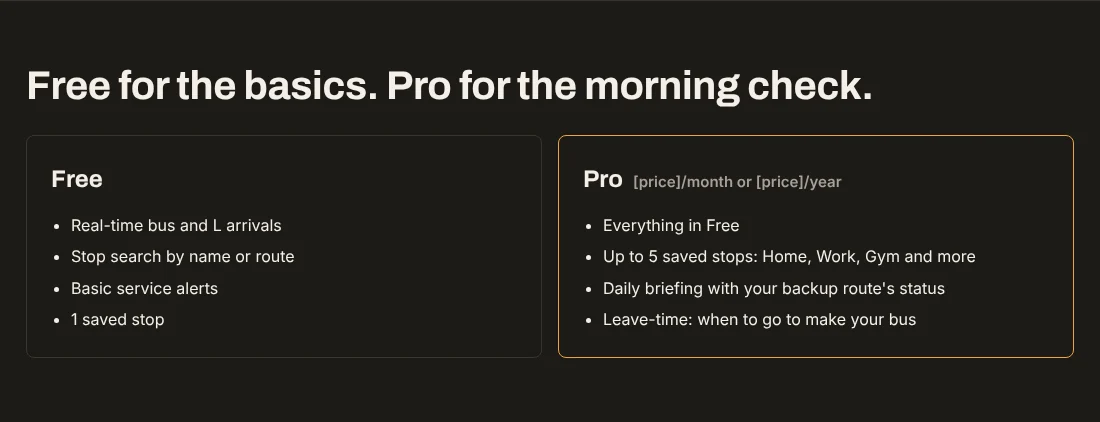
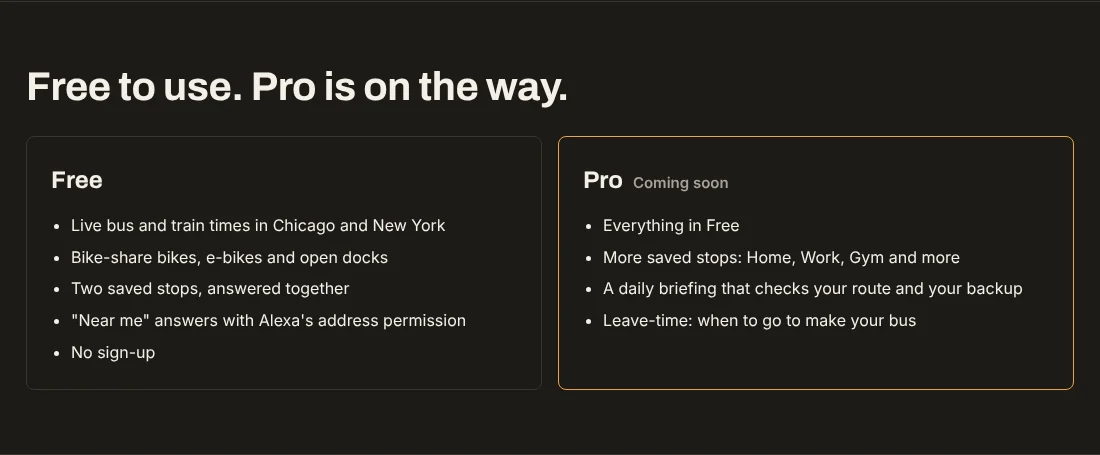
feat(work): Out the Door is live in Chicago and New York
Update the Out the Door case study to match the live skill: live status
(no more coming-soon badge), Chicago and New York coverage, bike share,
two saved stops, and working example phrasings. Remove claims for
features that aren't live yet (route nicknames, service alerts).
Refresh the screenshots, architecture diagrams and demo video frame,
add a "Two cities" screen, and move the card before NoteDoctor iOS so
the grid stays even.

Claude-Session: https://claude.ai/code/session_01XnDbDpTH5JA8nZwDr1Hqtn

diff --git a/src/app/work/projects.ts b/src/app/work/projects.ts
@@ -526,6 +526,87 @@ const PROJECTS: Project[] = [
       { bg: '#ffffff', src: '/images/projects/sterlingFoster/contact.webp',         label: 'Contact & consultation', size: 'standard', fullPage: { src: '/images/projects/sterlingFoster/pages/contact.webp', width: 1600, height: 3190 } },
       { bg: '#262c35', src: '/images/projects/sterlingFoster/mobile.webp',          label: 'Mobile homepage',        size: 'standard', fit: 'contain' },
     ],
+    nextProject: { slug: 'out-the-door', tag: 'Alexa Skill · Voice App', title: 'Out the Door', desc: 'An Alexa skill with live bus, train and bike-share times for Chicago and New York: a core commute service on serverless AWS, plus the brand and launch kit.', imgBg: '#1c1a17' },
+  },
+
+  {
+    slug: 'out-the-door',
+    featured: false,
+    category: 'voice',
+    tag: 'Alexa Skill · Voice App',
+    name: 'Out the Door',
+    year: '2026',
+    desc: 'An Alexa skill with live bus, train and bike-share times for Chicago and New York. We architected the core commute service and its serverless AWS backend, then named it, designed the brand and built the launch kit.',
+    imgBg: '#1c1a17',
+    imgSrc: '/images/projects/outTheDoor/cover.webp',
+    wideImgSrc: '/images/projects/outTheDoor/banner.webp',
+    imgLabel: 'Landing page hero',
+    hoverName: 'Out the Door',
+    tall: false,
+    title: ['Out the Door', 'for Alexa.'],
+    client: 'Out the Door',
+    status: 'Live · Chicago and New York',
+    services: ['Alexa Skill', 'Backend Architecture', 'AWS Infrastructure', 'Naming', 'Logo Design', 'Design System', 'Landing Page', 'Launch Funnel', 'Demo Video', 'Privacy & Terms'],
+    scope:    ['Alexa skill', 'Core service architecture', 'AWS infrastructure', 'Brand & logo', 'Landing page & launch kit'],
+    stack:    ['TypeScript', 'AWS Lambda', 'DynamoDB', 'SST', 'Amazon S3'],
+    heroImgAlt: 'Out the Door landing page: Know when to leave, beside an Alexa answer for two saved stops',
+    heroImgSrc: '/images/projects/outTheDoor/hero.webp',
+    heroPages: [
+      { label: 'Home',           src: '/images/projects/outTheDoor/pages/home.webp',    width: 1600, height: 4046 },
+      { label: 'Privacy policy', src: '/images/projects/outTheDoor/pages/privacy.webp', width: 1600, height: 2431 },
+      { label: 'Terms of use',   src: '/images/projects/outTheDoor/pages/terms.webp',   width: 1600, height: 2050 },
+    ],
+    overview: {
+      sidebar: 'An Alexa skill backed by a core commute service on serverless AWS, plus the brand and launch kit: name, logo, design system, landing page, launch funnel, legal pages and a social demo video.',
+      heading: 'One question, answered before you leave.',
+      body: [
+        'Out the Door is an Alexa skill for transit riders in Chicago and New York, built around one moment: at home, getting ready to leave, asking "Do I need to go now?" It answers in a sentence or two with live times for CTA buses and L trains, the New York subway and MTA buses in all five boroughs, and the nearest bike-share stations, and it answers two saved stops in a single question.',
+        'We named the product, drew the open-door logo, and set a small design system: warm amber on a near-black "night" ground, Archivo for headlines and Inter for text. The landing page leads with "Know when to leave.", shows a real spoken answer for two saved stops, and explains how it understands everyday phrasing like "the 44 Wallace going north at 38th". Every button points to one goal: enabling the skill.',
+        'Around the page we built the launch plan: an acquisition funnel with stage targets, privacy and terms pages, social share images, and a 30-second vertical demo video with an original soundtrack. The skill went live in November 2026, with a Pro tier for daily briefings and leave-time next.',
+      ],
+    },
+    highlights: {
+      label: 'Under the hood',
+      heading: 'One core service on a small serverless backend.',
+      items: [
+        {
+          eyebrow: 'Core Commute Service',
+          heading: 'One core, every client.',
+          body: 'The backend is the product. A TypeScript package of plain functions answers every question, and the Alexa skill is a thin adapter that parses intents and formats speech. iPhone with Siri, Android and AI assistants plug into the same tools later, with no new business logic.',
+          points: [
+            'searchStops(), getArrivals() and getRoutes() for every client, in every city',
+            'One interface per data type, so a new city or feed plugs in without touching the core',
+            'Stop resolution from everyday phrasing and the Echo\'s location, with the direction spoken back',
+            'Each answer returns structured data and short speech; every number comes from provider data',
+          ],
+          tags: ['TypeScript', 'Provider interfaces', 'Deterministic core'],
+          image: { src: '/images/projects/outTheDoor/architecture-core.webp', label: 'Core service: clients, tools and providers', width: 1600, height: 1000 },
+        },
+        {
+          eyebrow: 'Infrastructure',
+          heading: 'Small and serverless on AWS.',
+          body: 'One backend in us-east-1, defined in SST with dev and prod stages. No VPC and no always-on servers, so AWS\'s free tier covers most of the beta.',
+          points: [
+            'A Lambda per entry point; stop search runs in memory from an S3 index',
+            'DynamoDB for users, saved stops, entitlements and a 30-second arrival cache',
+            'EventBridge rebuilds the stop indexes from CTA and MTA schedule data',
+            'Firehose, S3 and Athena collect anonymized usage for the north-star metric',
+            'Claude on Bedrock is deployed with its flag off, used only if stop matching misses its target',
+          ],
+          tags: ['AWS Lambda', 'DynamoDB', 'SST', 'Amazon Bedrock'],
+          image: { src: '/images/projects/outTheDoor/architecture-infra.webp', label: 'AWS infrastructure', width: 1600, height: 1000 },
+        },
+      ],
+    },
+    gallery: [
+      { bg: '#1c1a17', src: '/images/projects/outTheDoor/hero.webp',             label: 'Landing page hero', size: 'wide', fit: 'contain',
+        fullPage: { src: '/images/projects/outTheDoor/pages/home.webp', width: 1600, height: 4046 } },
+      { bg: '#1c1a17', src: '/images/projects/outTheDoor/say-it-your-way.webp',  label: 'Say it your way: everyday phrasing, resolved', size: 'standard', fit: 'contain' },
+      { bg: '#1c1a17', src: '/images/projects/outTheDoor/two-cities.webp',       label: 'Two cities, one skill', size: 'standard', fit: 'contain' },
+      { bg: '#1c1a17', src: '/images/projects/outTheDoor/free-and-pro.webp',     label: 'Free now, Pro coming soon', size: 'standard', fit: 'contain' },
+      { bg: '#1c1a17', src: '/images/projects/outTheDoor/logo.webp',             label: 'Logo lockup', size: 'standard', fit: 'contain' },
+      { bg: '#1c1a17', src: '/images/projects/outTheDoor/demo-video.webp',       label: 'Demo video: two saved stops, one question', size: 'standard', fit: 'contain' },
+    ],
     nextProject: { slug: 'notedoctor-ios', tag: 'Mobile App · iOS', title: 'NoteDoctor.AI for iOS', desc: 'An iPhone app for the NoteDoctor.AI prior authorization platform, in development. Sign in or create an account, with the same clean, clinical look as the web app.', imgBg: '#0d1017' },
   },
 
@@ -563,89 +644,9 @@ const PROJECTS: Project[] = [
       { bg: '#0d1017', src: '/images/projects/noteDoctorAi_ios/sign-in.webp', label: 'Sign in', size: 'standard', fit: 'contain' },
       { bg: '#0d1017', src: '/images/projects/noteDoctorAi_ios/sign-up.webp', label: 'Create an account', size: 'standard', fit: 'contain' },
     ],
-    nextProject: { slug: 'out-the-door', tag: 'Alexa Skill · Voice App', title: 'Out the Door', desc: 'A voice-first commute assistant for Chicago CTA riders, launching as an Alexa skill: a core commute service on serverless AWS, plus the brand and launch kit.', imgBg: '#1c1a17' },
-  },
-
-  {
-    slug: 'out-the-door',
-    featured: false,
-    comingSoon: true,
-    category: 'voice',
-    tag: 'Alexa Skill · Voice App',
-    name: 'Out the Door',
-    year: '2026',
-    desc: 'An Alexa skill that tells Chicago CTA riders when to leave. We architected the core commute service and its serverless AWS backend, then named it, designed the brand and built the launch kit.',
-    imgBg: '#1c1a17',
-    imgSrc: '/images/projects/outTheDoor/cover.webp',
-    wideImgSrc: '/images/projects/outTheDoor/banner.webp',
-    imgLabel: 'Landing page hero',
-    hoverName: 'Out the Door',
-    tall: false,
-    title: ['Out the Door', 'for Alexa.'],
-    client: 'Out the Door',
-    status: 'Coming soon · pre-launch',
-    services: ['Alexa Skill', 'Backend Architecture', 'AWS Infrastructure', 'Naming', 'Logo Design', 'Design System', 'Landing Page', 'Launch Funnel', 'Demo Video', 'Privacy & Terms'],
-    scope:    ['Alexa skill', 'Core service architecture', 'AWS infrastructure', 'Brand & logo', 'Landing page & launch kit'],
-    stack:    ['TypeScript', 'AWS Lambda', 'DynamoDB', 'SST', 'Amazon S3'],
-    heroImgAlt: 'Out the Door landing page: Know when to leave, beside a sample morning briefing',
-    heroImgSrc: '/images/projects/outTheDoor/hero.webp',
-    heroPages: [
-      { label: 'Home',           src: '/images/projects/outTheDoor/pages/home.webp',    width: 1600, height: 3437 },
-      { label: 'Privacy policy', src: '/images/projects/outTheDoor/pages/privacy.webp', width: 1600, height: 2351 },
-      { label: 'Terms of use',   src: '/images/projects/outTheDoor/pages/terms.webp',   width: 1600, height: 1984 },
-    ],
-    overview: {
-      sidebar: 'An Alexa skill backed by a core commute service on serverless AWS, plus the brand and launch kit: name, logo, design system, landing page, launch funnel, legal pages and a social demo video.',
-      heading: 'One question, answered before you leave.',
-      body: [
-        'Out the Door is a commute assistant for Chicago CTA riders, launching as an Alexa skill. It is built around one moment: at home, getting ready to leave, asking "Do I need to go now, and is my route OK?" Free arrival lookups are everywhere, so the brand sells the morning check instead: a daily briefing that covers your route and your backup route.',
-        'We named the product, drew the open-door logo, and set a small design system: warm amber on a near-black "night" ground, Archivo for headlines and Inter for text. The landing page leads with "Know when to leave.", shows a sample spoken briefing, and explains how it understands loose phrasing like "the Clark bus". Every button points to one goal: enabling the skill.',
-        'Around the page we built the launch plan: an acquisition funnel with stage targets, privacy and terms pages, social share images, and a 30-second vertical demo video with an original soundtrack. The product is in development; this page will grow as it ships.',
-      ],
-    },
-    highlights: {
-      label: 'Under the hood',
-      heading: 'One core service on a small serverless backend.',
-      items: [
-        {
-          eyebrow: 'Core Commute Service',
-          heading: 'One core, every client.',
-          body: 'The backend is the product. A TypeScript package of plain functions answers every question, and the Alexa skill is a thin adapter that parses intents and formats speech. iPhone with Siri, Android and AI assistants plug into the same tools later, with no new business logic.',
-          points: [
-            'searchStops(), getArrivals(), getAlerts() and getRoutes() for every client',
-            'One interface per data type, so a new city or feed plugs in without touching the core',
-            'Stop resolution from nicknames, location and direction history, with the assumption spoken back',
-            'Each answer returns structured data and short speech; every number comes from provider data',
-          ],
-          tags: ['TypeScript', 'Provider interfaces', 'Deterministic core'],
-          image: { src: '/images/projects/outTheDoor/architecture-core.webp', label: 'Core service: clients, tools and providers', width: 1600, height: 1000 },
-        },
-        {
-          eyebrow: 'Infrastructure',
-          heading: 'Small and serverless on AWS.',
-          body: 'One backend in us-east-1, defined in SST with dev and prod stages. No VPC and no always-on servers, so AWS\'s free tier covers most of the beta.',
-          points: [
-            'A Lambda per entry point; stop search runs in memory from an S3 index',
-            'DynamoDB for users, saved stops, entitlements and a 30-second arrival cache',
-            'EventBridge rebuilds the stop index from CTA GTFS on a schedule',
-            'Firehose, S3 and Athena collect anonymized usage for the north-star metric',
-            'Claude on Bedrock is deployed with its flag off, used only if stop matching misses its target',
-          ],
-          tags: ['AWS Lambda', 'DynamoDB', 'SST', 'Amazon Bedrock'],
-          image: { src: '/images/projects/outTheDoor/architecture-infra.webp', label: 'AWS infrastructure', width: 1600, height: 1000 },
-        },
-      ],
-    },
-    gallery: [
-      { bg: '#1c1a17', src: '/images/projects/outTheDoor/hero.webp',             label: 'Landing page hero', size: 'wide', fit: 'contain',
-        fullPage: { src: '/images/projects/outTheDoor/pages/home.webp', width: 1600, height: 3437 } },
-      { bg: '#1c1a17', src: '/images/projects/outTheDoor/say-it-your-way.webp',  label: 'Say it your way: loose phrasing, resolved', size: 'standard', fit: 'contain' },
-      { bg: '#1c1a17', src: '/images/projects/outTheDoor/free-and-pro.webp',     label: 'Free and Pro plans', size: 'standard', fit: 'contain' },
-      { bg: '#1c1a17', src: '/images/projects/outTheDoor/logo.webp',             label: 'Logo lockup', size: 'standard', fit: 'contain' },
-      { bg: '#1c1a17', src: '/images/projects/outTheDoor/demo-video.webp',       label: 'Demo video: the morning briefing', size: 'standard', fit: 'contain' },
-    ],
     nextProject: { slug: 'notedoctor-ai', tag: 'Web Design & Development', title: 'NoteDoctor.AI Marketing Site', desc: 'Full marketing site for an AI-powered prior authorization platform — design, development, content, and end-to-end deployment.', imgBg: '#0d1017' },
   },
+
 
 ]
 
